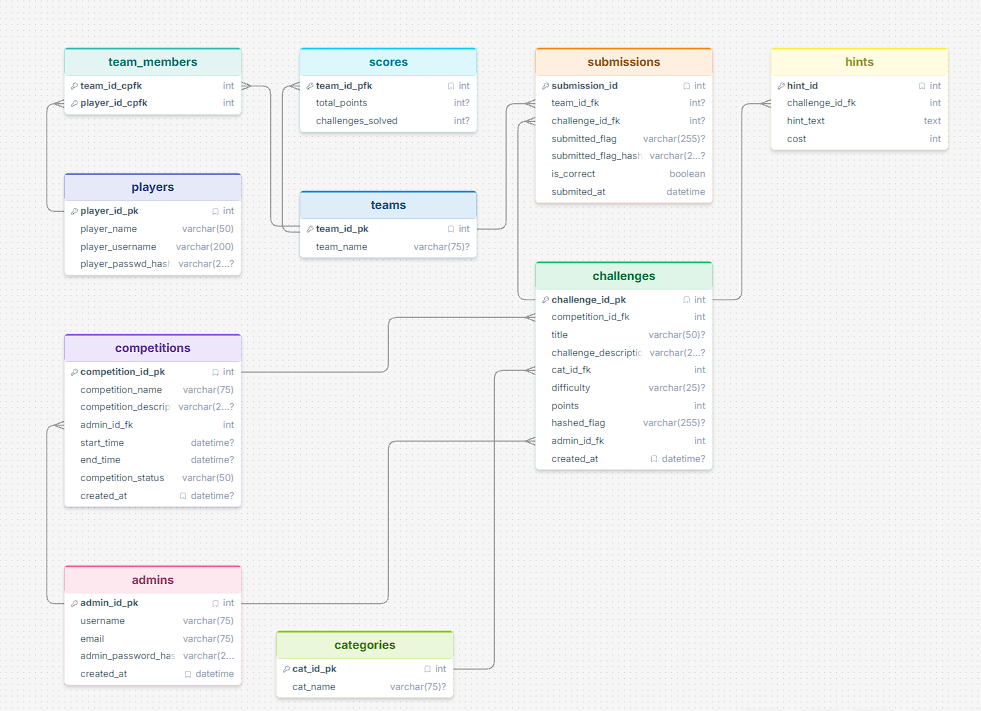
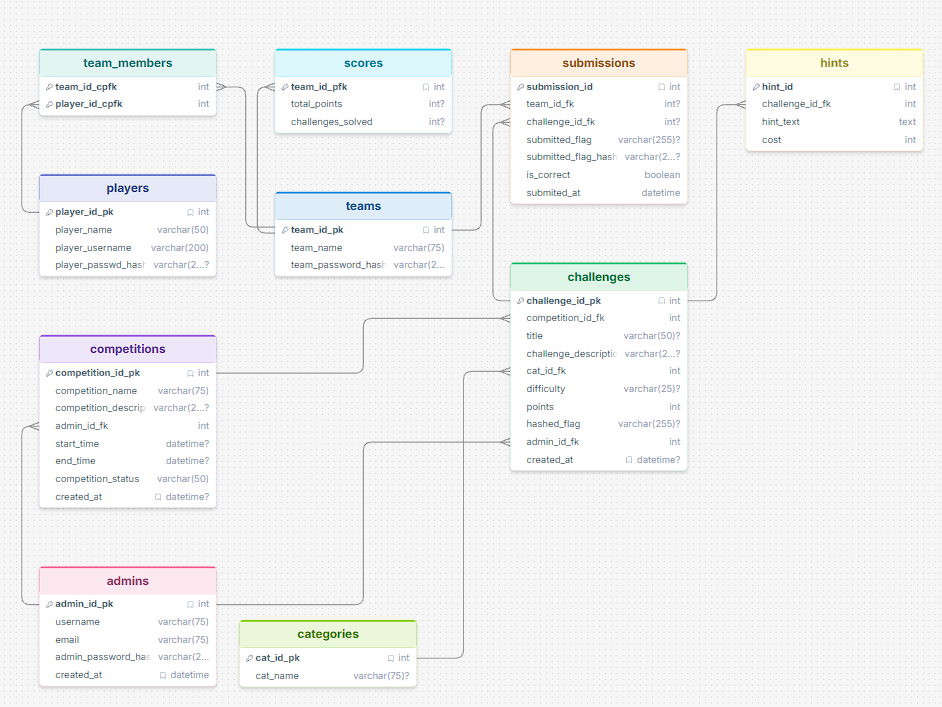
Modified: main.py - added 2 empty funcs namely reg_team and team_init
Modified: init_queries.sql
- Added team_password_hash column to store passwd hashes

Replaced: Schema.png

Changed region(s): [[0.0308, 0.0622, 0.7696, 0.9958], [0.0308, 0.4668, 0.4002, 0.7468], [0.7696, 0.0622, 0.9851, 0.2178]]

diff --git a/FrontEnd/main.py b/FrontEnd/main.py
@@ -75,7 +75,7 @@ def menu():
 
     print("Choose an Option :) ")
 
-    menu_choices = """1. Initialize for the first time\n2. Admin login \n3. Dropping the database\n4. To Exit"""
+    menu_choices = """1. Initialize for the first time\n2. Admin login \n3. Dropping the database\n4. Team login\n5. To exit"""
 
     print(menu_choices)
 
@@ -84,7 +84,7 @@ def menu():
         try:
             choice = int(input("Enter your choice here! : "))
 
-            if choice in (1, 2, 3, 4):
+            if choice in (1, 2, 3, 4, 5):
                 return choice
             else:
                 print("Enter a integer within the range")
@@ -109,7 +109,7 @@ def init(mn_ch):
                 while cur.nextset():
                     cur.fetchall()
 
-                print("Successfully created all the schemas required for the ctf;\n----------------------------------------------------------")
+                print("----------------------------------------------------------\nSuccessfully created all the schemas required for the ctf;\n----------------------------------------------------------")
 
         except FileNotFoundError:
             print("File is missing please restore it via github repo: github.com/AtomTheDark/CTF_Administration")
@@ -144,8 +144,11 @@ def init(mn_ch):
 
         exit()
 
+    elif mn_ch == 4:
+        team_init()
+
     # To exit
-    elif mn_ch == 4: 
+    elif mn_ch == 5: 
         exit()
 
 # To authenticate admins and passout the username to multiple functions
@@ -163,7 +166,7 @@ def admin_init(usr):
     print("You are now logged in ^_^")
     while True:
         print("----------------------------------------------------------")
-        print("1. To add new admins\n2. To see all the admins\n3. Delete admins\n4. To create a competition\n5. To see all the registered competitions\n6. Ultimate Flag\n7. To exit")
+        print("1. To add new admins\n2. To see all the admins\n3. Delete admins\n4. To create a competition\n5. To see all the registered competitions\n6. Ultimate Flag\n7. To register teams\n8. To exit")
 
         try:
             admin_ch = int(input("Enter a choice to proceed: "))
@@ -188,6 +191,9 @@ def admin_init(usr):
                 print("ULTIMATE FLAG: SV{8RJP+X8}")
 
             elif admin_ch == 7:
+                reg_team()                    
+
+            elif admin_ch == 8:
                 exit()
 
             else:
@@ -295,6 +301,13 @@ def see_comps():
                 \nCompetition admin: {admin_user}\nCompetiton starting time: {start_time}\ncompetition ending time: {end_time}\
                 \nCompetition status: {competition_status}\nCompetition creation time: {created_at}"
         )
+
+
+def reg_team():
+    ...
+
+def team_init():
+    ...
 
 # This ensures that the program can run only when it is directly run and not imported
 if __name__ == "__main__": main()
